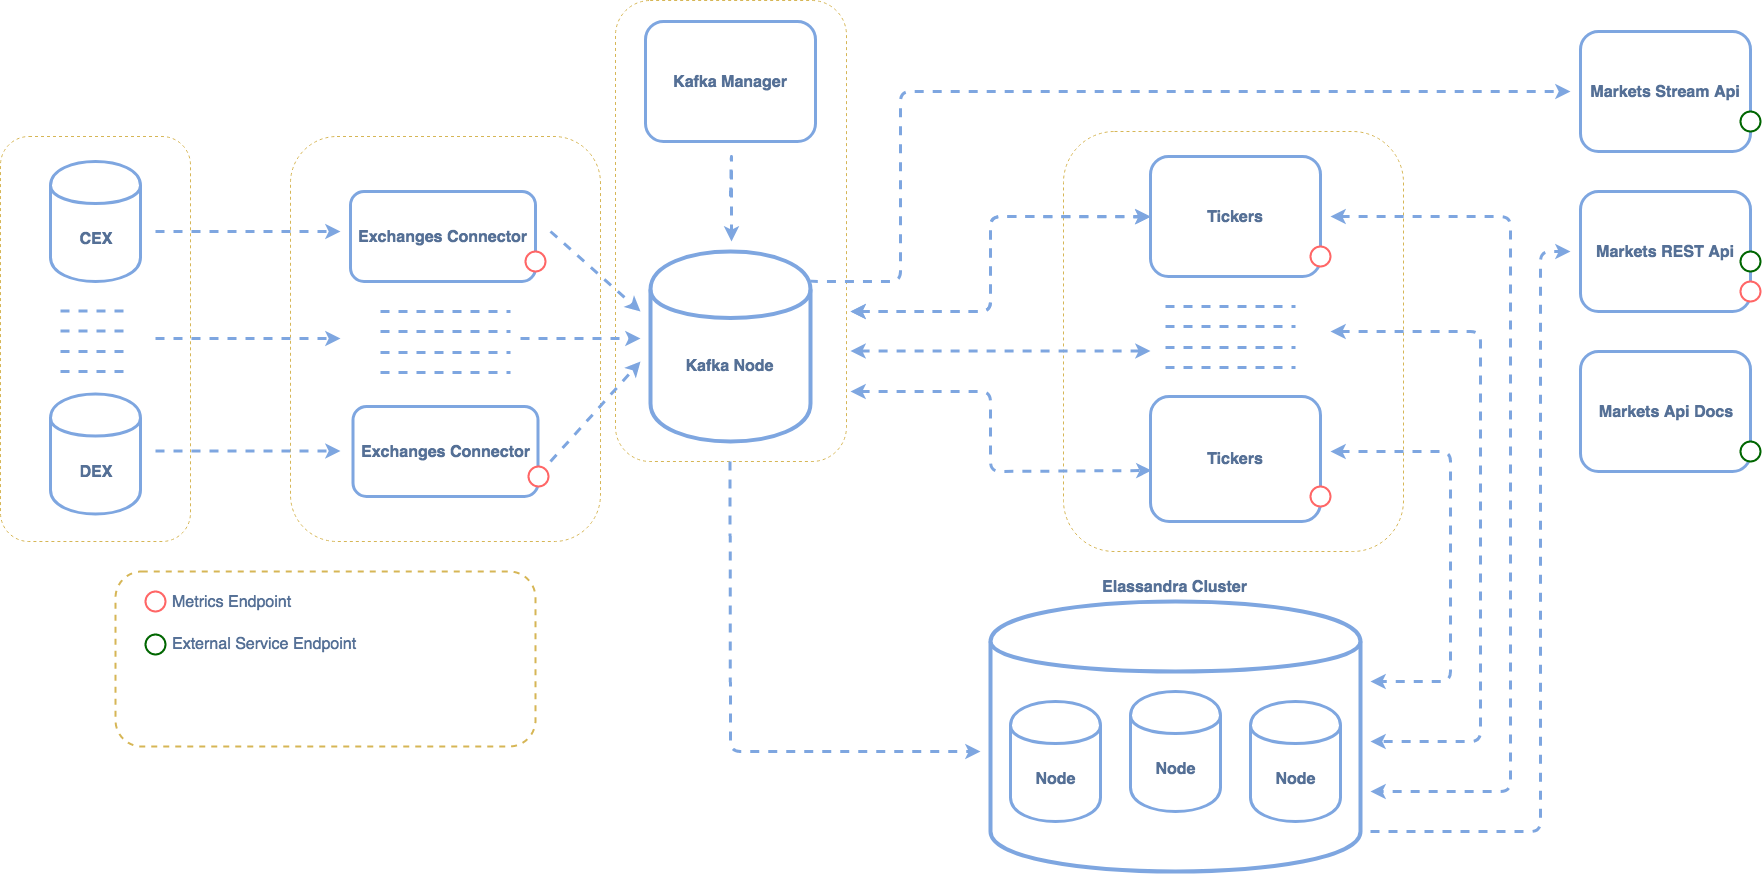
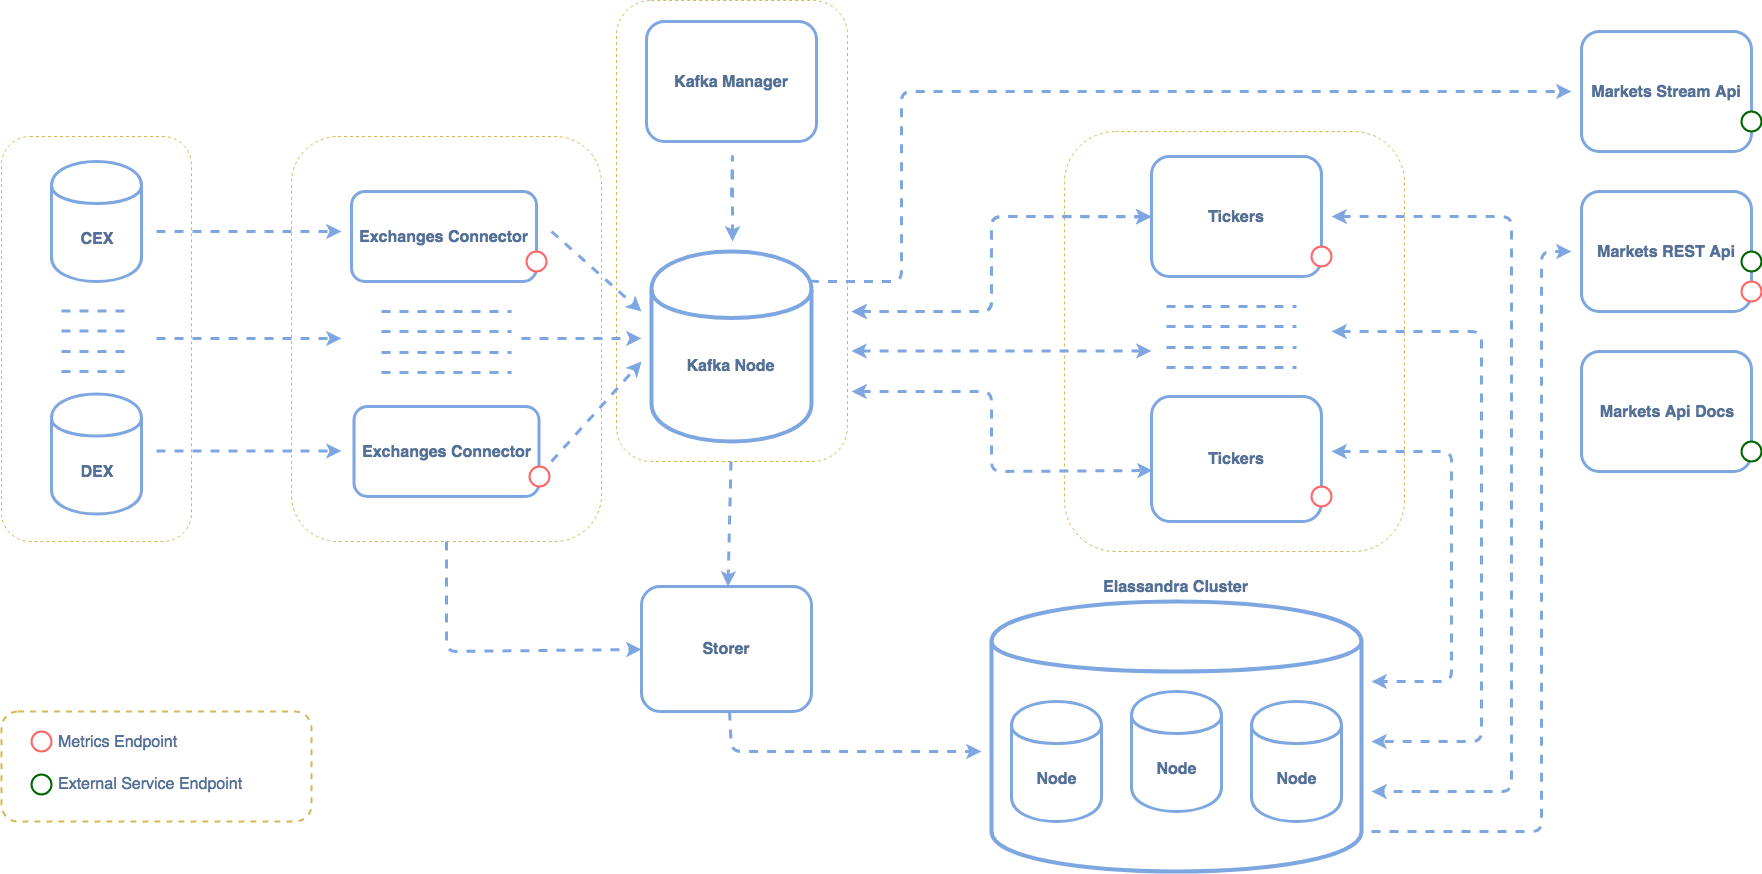
#196 update docs

diff --git a/docs/components/overview.md b/docs/components/overview.md
@@ -7,8 +7,9 @@
 | Elassandra                 | 1 - N | Data Back                                          |                               |                           |          |
 | Exchanges Connector        | 1 - N | Connect to CEXs/DEXs for raw data                  |                               | 8080:/actuator/metrics    |          |
 | Tickers                    | 1 - N | Calculate Tickers From Raw Data                    |                               |                           |          |
-| Markets REST Api           | 1 - N | Rest Api To Markets Entities                       |                               |                           |   y      |
-| Markets Stream             | 1 - N | Web Socket Api To Markets Entities                 |                               |                           |   y      |
+| Storer                     | 1     | Write data to database                             |                               |                           |          |
+| Markets REST API           | 1 - N | Rest Api To Markets Entities                       |                               |                           |   y      |
+| Markets Stream API         | 1 - N | Web Socket Api To Markets Entities                 |                               |                           |   y      |
 | Markets Api Docs           | 1 - N | Markets Api Docs Based On Swagger                  |                               |                           |   y      |
 
 ![Basic Overview](images/architecture.png)
@@ -23,6 +24,9 @@
  
 ## Exchanges Connector
 Collect raw data from centralized and decentalized exchanges such as trades, orderbooks and put it to kafka.
+
+## Storer
+Writes data from kafka topics or directly from exchanges-connector to cassandra ckuster
 
 ## Tickers
 Calculate tickers, prices, etc and aggregate raw data which collecting exchanges connectors module
